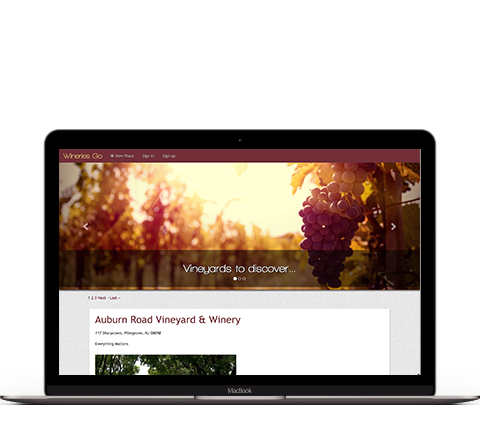
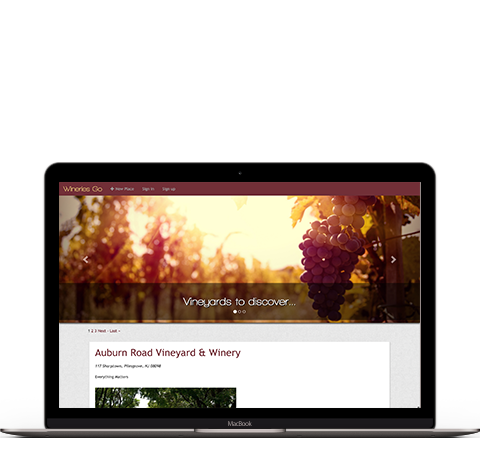
upload additional portfolio items

diff --git a/source/stylesheets/all.css.scss b/source/stylesheets/all.css.scss
@@ -50,6 +50,18 @@ body {
   background-size: cover;
 }
 
+.color-bg-2{
+  background: url("#");
+  background-color: #F1EEEE;
+  background-position: center center;
+  background-repeat: no-repeat;
+  background-attachment: fixed;
+  -webkit-background-size: cover;
+  -moz-background-size: cover;
+  -o-background-size: cover;
+  background-size: cover;
+}
+
 h1 {
   color: #fff;
   font-family: 'Raleway', sans-serif;
@@ -107,7 +119,7 @@ h6 {
   text-align: center;
   font-weight: bold;
   font-size: 45px;
-  padding-top: 50px;
+  padding-top: 100px;
 }
 
 header {
@@ -206,7 +218,7 @@ ol {
 
 .navb {
   text-align: right; 
-  padding-right: 200px; 
+  padding-right: 240px; 
 }
 
 .navb a {
